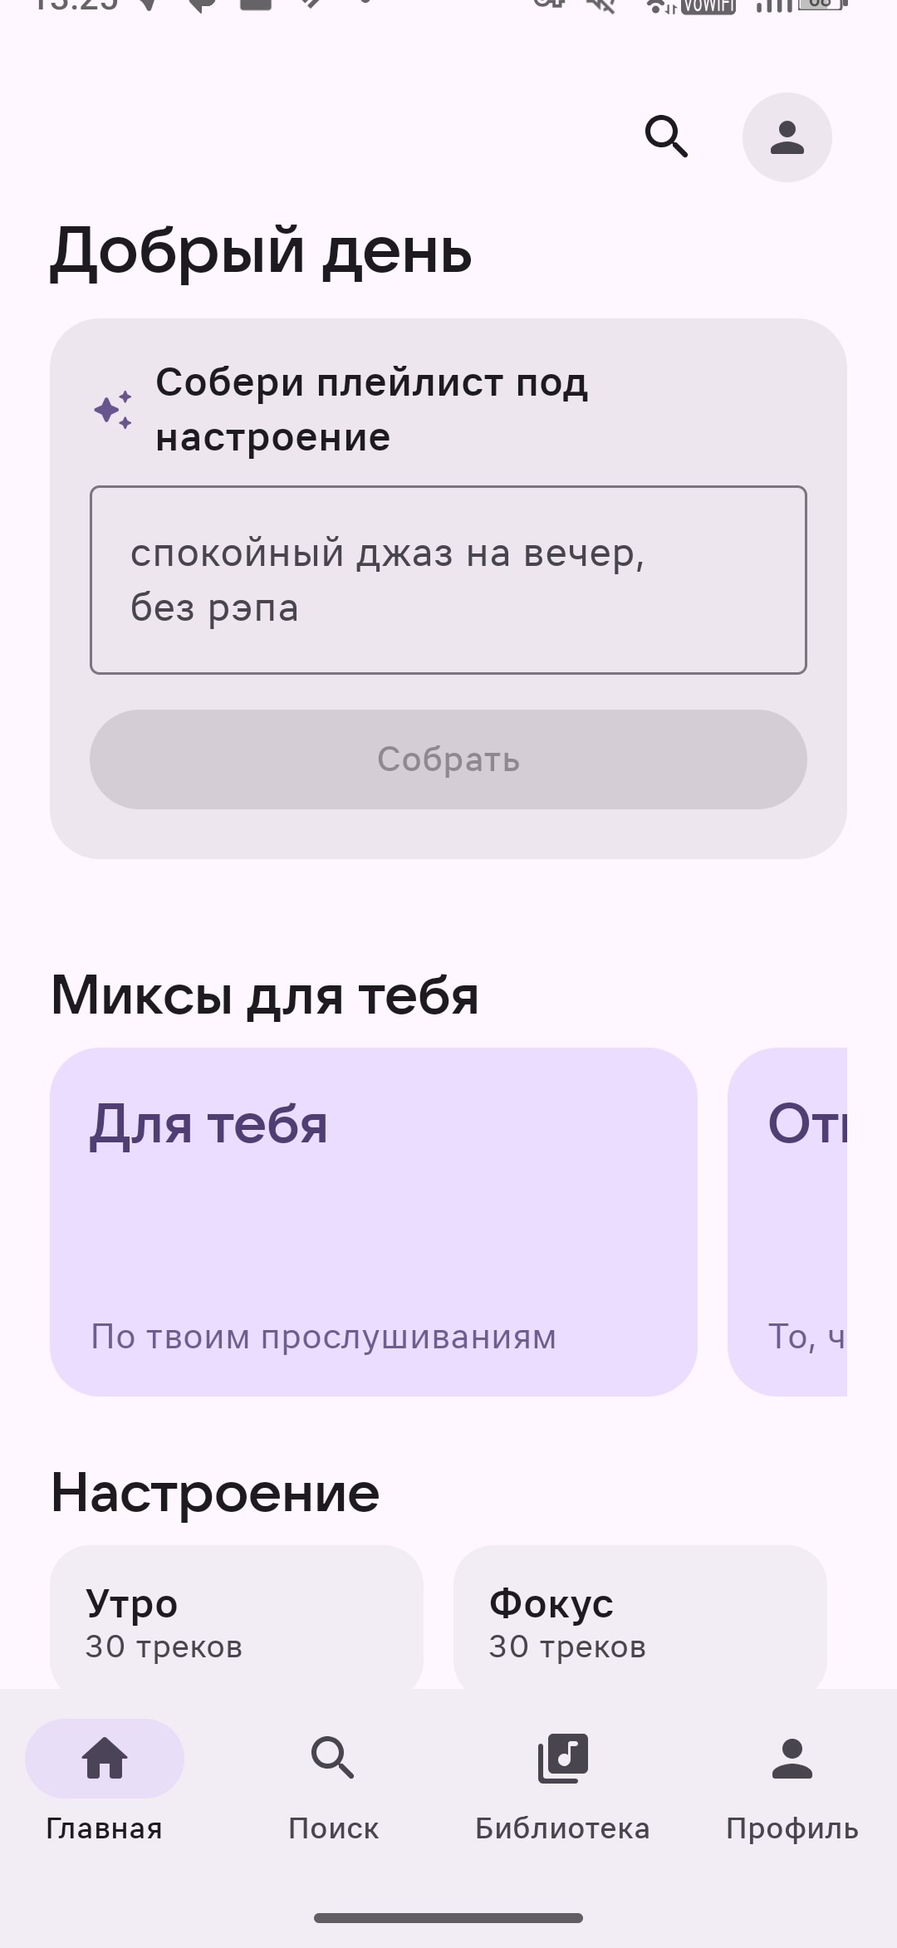
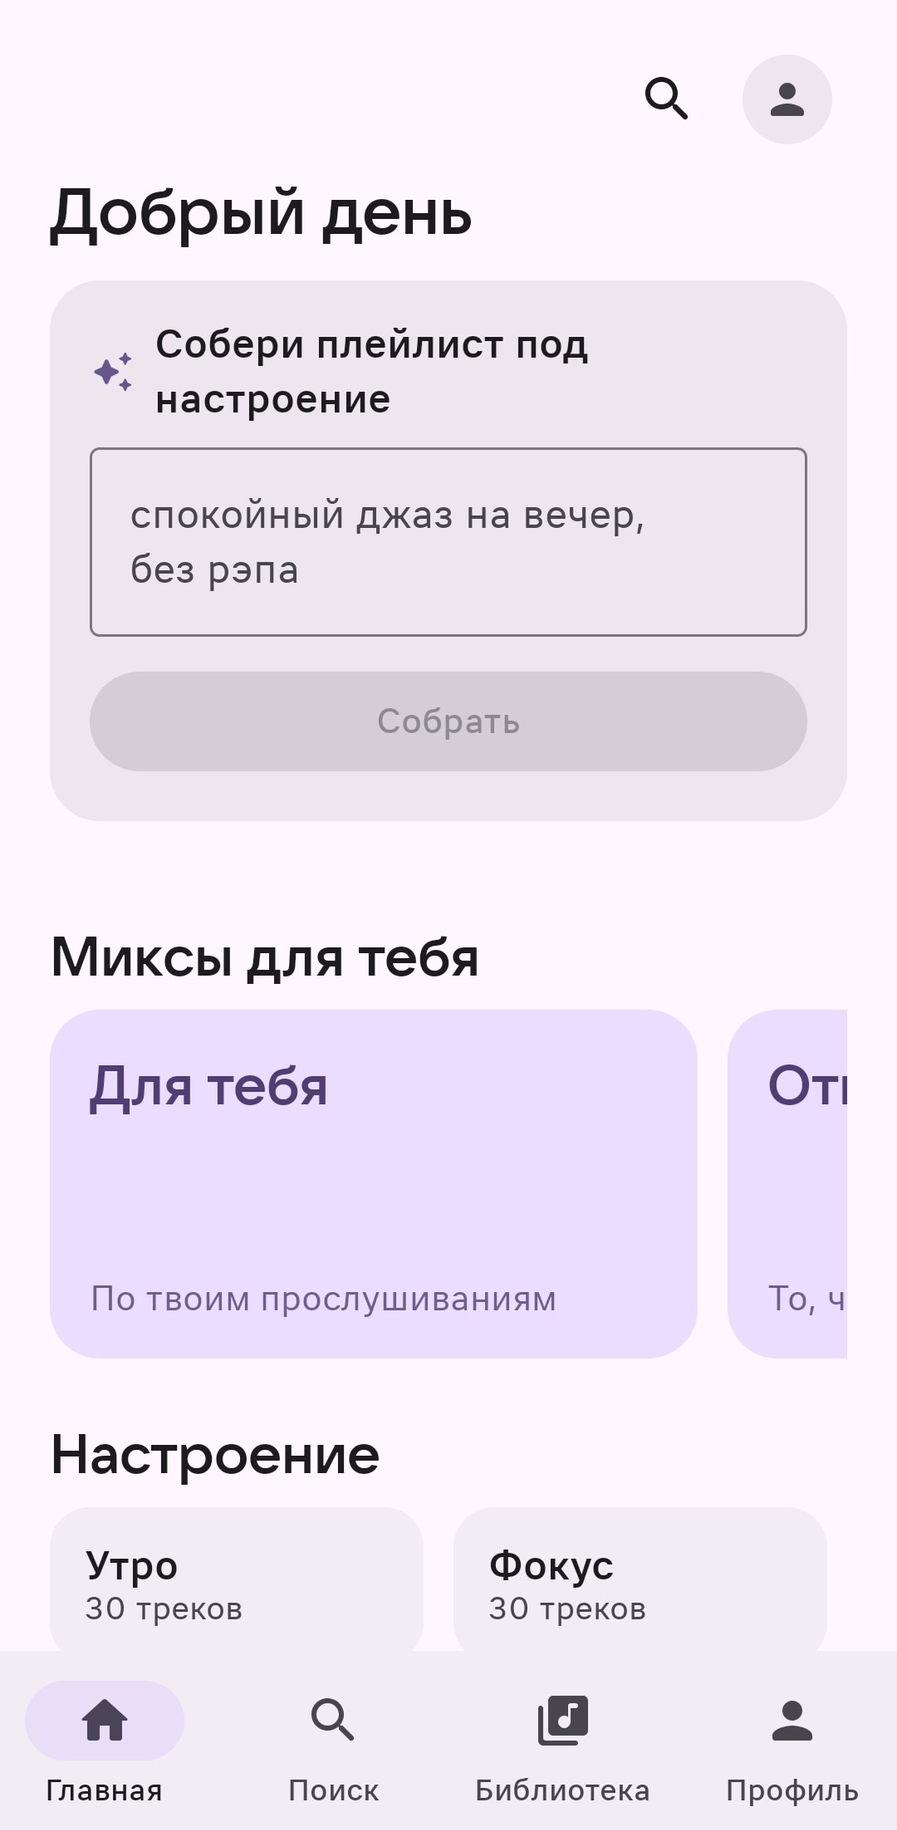
docs: add English README, crop system bars from screenshots

diff --git a/README.md b/README.md
@@ -14,38 +14,38 @@
 [![Kotlin](https://img.shields.io/badge/Kotlin-2.1-7F52FF.svg)](https://kotlinlang.org/)
 [![Jetpack Compose](https://img.shields.io/badge/Jetpack%20Compose-Material%203-4285F4.svg)](https://developer.android.com/jetpack/compose)
 [![minSdk](https://img.shields.io/badge/minSdk-31-green.svg)](#)
+[![CI](https://github.com/KWhale-Music/kwhale-android/actions/workflows/ci.yml/badge.svg)](https://github.com/KWhale-Music/kwhale-android/actions/workflows/ci.yml)
 
 </div>
 
-Native Android client for the [KWhale Server](https://github.com/KWhale-Music/kwhale-server),
-rebuilt from the ground up on **Jetpack Compose + Material 3**. Full theme system
-(dark / light / AMOLED / Monet + 129 accents), background playback via Media3,
-offline downloads, home-screen widget, and share links that open right into the app.
+A native Android client for [KWhale Server](https://github.com/KWhale-Music/kwhale-server),
+written from scratch with **Jetpack Compose + Material 3**. Full theme system
+(dark / light / AMOLED / Monet + 129 accents), background playback with Media3,
+offline downloads, a home-screen widget and share links that open directly in the app.
 
-## ✨ Features
+## Features
 
-- **Material 3 everything** — dynamic color (Monet), AMOLED true-black, 129 hand-picked
-  accents, dark / light / system modes.
-- **Playback** — AndroidX Media3 `MediaSessionService`: background playback, media
-  notification, lock-screen controls, queue, lyrics view.
-- **Offline-first downloads** — WorkManager-based, plays local files even when the
-  server URL changes (files are keyed by remote ID, not URL).
-- **Home-screen widget** — Glance-based mini player following the M3 theme.
+- **Material 3 throughout** — dynamic colors (Monet), pure-black AMOLED, 129 accents,
+  dark / light / system themes.
+- **Playback** — AndroidX Media3 `MediaSessionService`: background, notification shade,
+  lock-screen controls, queue, lyrics.
+- **Offline downloads** — built on WorkManager; local playback survives server URL changes
+  (files are keyed by remote ID, not URL).
+- **Widget** — a Glance mini-player that follows the M3 theme.
 - **Sharing** — share tracks/albums/artists, `kwhale://track|album|artist|share` deep links,
-  shared-track bottom sheet.
+  incoming-track bottom sheet.
 - **Security** — single-origin API client (`HostPolicyInterceptor` blocks third-party hosts),
   Bearer JWT with refresh-on-401 that survives network blips, tokens in
   `EncryptedSharedPreferences`, cleartext only for loopback / debug builds.
 
-## 📸 Screenshots
+## Screenshots
 
 <div align="center">
-<img src="docs/images/screens-main.png" alt="Home, Search, Library, Profile, Album, Artist" width="100%"/>
-<br/>
-<img src="docs/images/screens-player.png" alt="Player, Queue, Lyrics, Playlist, Settings, Appearance" width="100%"/>
+<img src="docs/images/screens-home.png" alt="Home" width="48%"/>
+<img src="docs/images/screens-library.png" alt="Library" width="48%"/>
 </div>
 
-## 🚀 Quickstart
+## Quick start
 
 ```bash
 git clone https://github.com/KWhale-Music/kwhale-android.git
@@ -57,73 +57,54 @@ export JAVA_HOME=<jdk-17> ANDROID_HOME=<android-sdk>
 
 # release build (R8 + resource shrinking → ~11 MB APK)
 ./gradlew :app:assembleRelease
+
+# network-layer tests (on low RAM: no daemon, max 2 workers)
+./gradlew :core:network:testDebugUnitTest --no-daemon -Dorg.gradle.workers.max=2
 ```
 
 Prebuilt APKs are attached to [GitHub Releases](https://github.com/KWhale-Music/kwhale-android/releases).
 
-Point the app at your server: **Settings → server URL**, or set the debug build's default in
+Point the app at your server: **Settings → Server URL**, or set the debug default in
 (gitignored) `local.properties`:
 
 ```properties
 API_BASE_URL=http://<your-lan-host>:19001/v1
 ```
 
-The release build defaults to `https://music.dueattendant149.org/v1` and can be switched
-to any KWhale instance in the UI.
+Release builds default to `https://music.dueattendant149.org/v1` and can switch to any
+KWhale instance from the UI.
 
-## ⚙ Configuration
+## Configuration
 
-| Item | Where | Notes |
+| What | Where | Notes |
 |---|---|---|
 | Debug API URL | `API_BASE_URL` in `local.properties` | default `http://10.0.2.2:19001/v1` (emulator) |
-| Release API URL | in-app server picker | default `https://music.dueattendant149.org/v1` |
-| Release signing | `APPS_*` in `~/.gradle/gradle.properties` | standard release keystore setup |
-| Network security | `res/xml/network_security_config.xml` | HTTPS-only in release; debug builds allow cleartext for LAN dev hosts |
+| Release API URL | server picker in the app | default `https://music.dueattendant149.org/v1` |
+| Release signing | `APPS_*` in `~/.gradle/gradle.properties` | standard release keystore |
+| Network security | `res/xml/network_security_config.xml` | release is HTTPS-only; debug builds allow cleartext for LAN dev hosts |
 
-## 🏗 Architecture
+## Architecture
 
 ```
 app/            — Compose screens, player (Media3), downloads, widget, WorkManager
 core:model      — domain models (Track, Album, Artist, Playlist)
 core:design     — KwhaleTheme (M3), 129 accents, fonts
 core:network    — KwhaleApi, ApiClient (single-origin), TokenStore, DTOs
-core:player     — PlaybackState
-api/            — OpenAPI 3.1 contract of KWhale Core v1 (+ mock server)
+core:player     — PlaybackState (player state)
+api/            — OpenAPI 3.1 KWhale Core v1 contract (+ mock)
 ```
 
-## 🧭 Author's review
+## Status
 
-*Honest notes from the author — trade-offs and open rough edges.*
+Beta — version `0.1.22`.
 
-What I'm genuinely happy with:
-
-- **The theme system.** 129 accents, AMOLED and Monet in one coherent `core:design` —
-  it's the part of the app that feels finished and personal.
-- **Network resilience.** Refresh-on-401 keeps the session across network failures
-  (cleared only on a genuinely invalid token), and the single-origin policy means the app
-  physically can't leak streams to third-party hosts.
-- **Offline robustness.** Keying downloads by remote ID instead of URL means switching
-  servers doesn't break a downloaded library.
-
-What's honestly still rough:
-
-- **Silent UI failures.** Some actions fail without feedback (optimistic state without
-  rollback, follow-button no-ops). The error-handling pass is the top priority.
-- **Pagination is uneven** — some lists claim totals they don't have. Honest totals are
-  coming.
-
-Next up: error-handling honesty pass, download progress/retry UX, remaining lint warnings → 0,
-and automated APK publishing via GitHub Releases.
-
-## 🗺 Status
-
-Beta — version `0.1.22`, used daily by the author on a physical device.
-
-## 📄 License
+## License
 
 [AGPL-3.0](LICENSE) — same terms as the server.
 
-Third-party notes: the UI was designed as a *recreation* — code is original, but the
-font set (VK Sans) and some visual language reference VK X and remain the property of
-their owners; treat them as replaceable design assets. Streaming connectors live in the
-server repository and integrate third-party services under their own terms.
+The bundled **VK Sans** fonts are excluded from the AGPL and remain the property of
+their owners; treat them as replaceable design assets.
+
+## Acknowledgements
+
+The UI is inspired by **VK X**. Thanks for the visual language and the font set.
